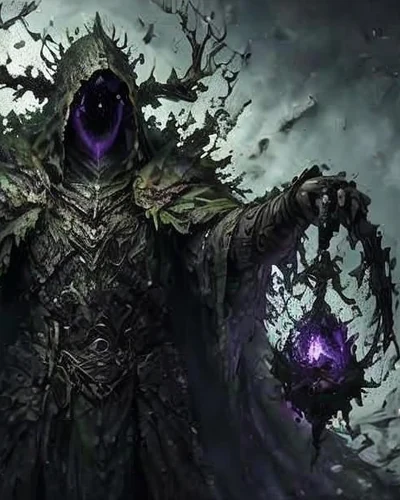
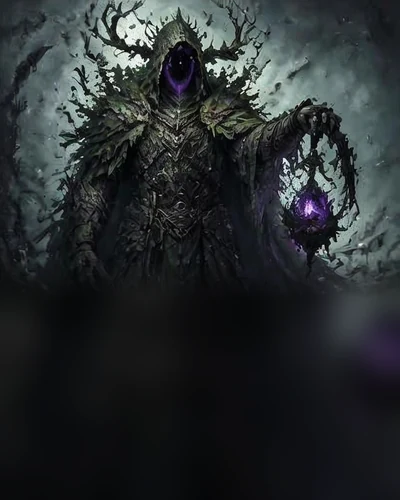
Nyx, Lantern of Nul: zoomed-out card art showing the whole figure and the lantern

diff --git a/src/ui/components/cardArtFocus.ts b/src/ui/components/cardArtFocus.ts
@@ -106,6 +106,8 @@ export const CARD_ART_FOCUS: Record<string, number> = {
   neu_abyssal_pyre: 42,
   neu_aegis_pilgrim: 22,
   neu_aeon_pale_wanderer: 22,
+  // Full-width art on top, blurred fill below (src/assets/cards/neu_nyx_lantern_of_nul.webp).
+  neu_nyx_lantern_of_nul: 0,
   neu_ashroad_sellsword: 20,
   neu_bog_toadcaller: 30,
   neu_bounty_stalker: 32,
